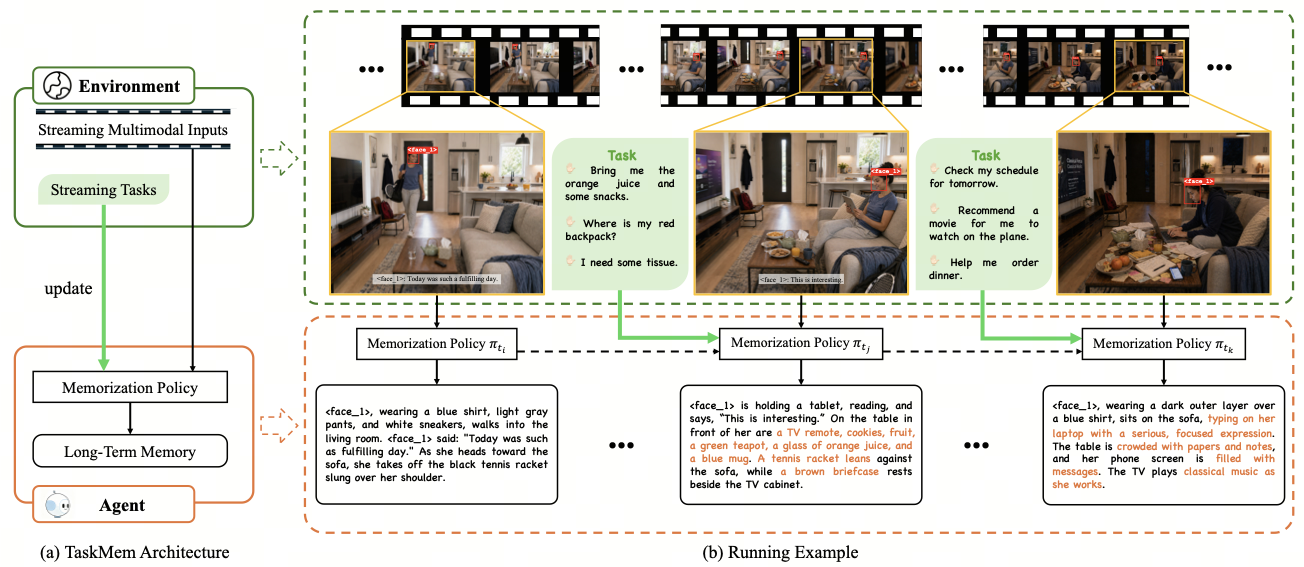
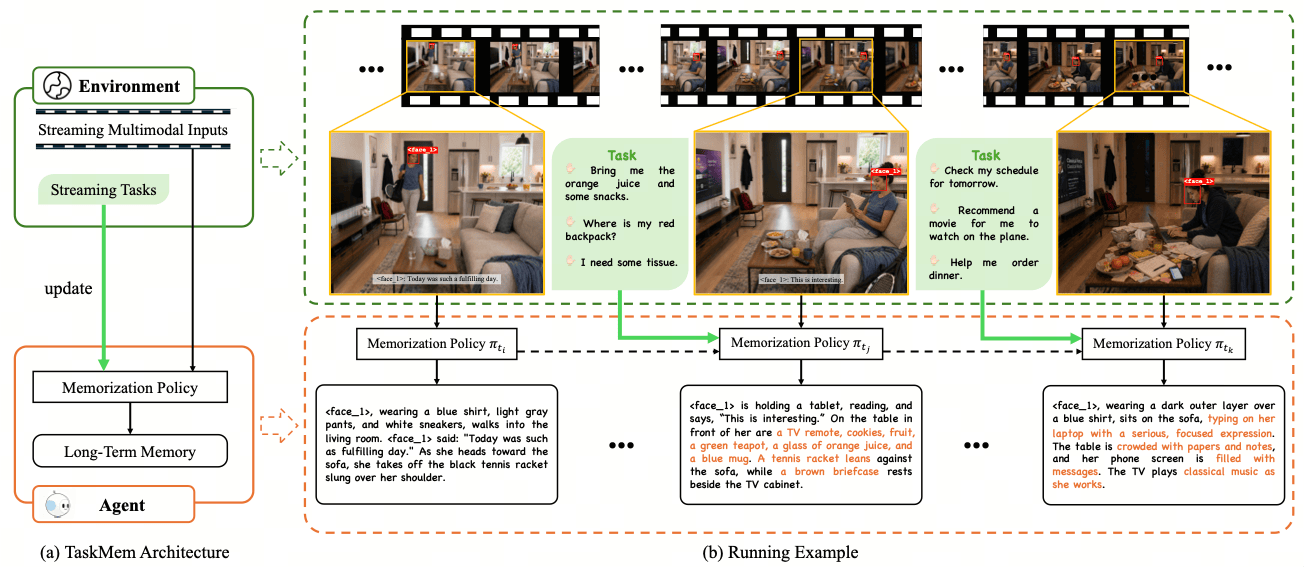
chore: migrate site to taskmem.github.io and compress figures
- Compress introduction/train/agent-icon PNGs by ~75%
  (introduction.png 464KB->137KB, train.png 261KB->70KB, agent-icon.png 240KB->35KB)
- Switch all jsDelivr CDN paths from gh/Hope-Rita/TaskMem-demo to gh/taskmem/taskmem.github.io
- Update BibTeX url, og:url, twitter:image, structured data url to https://taskmem.github.io/
- Add scripts/warm_cdn.sh to purge + pre-fetch jsDelivr after each push
- Ignore .image-originals-backup/ (kept locally as pre-compression originals)

diff --git a/index.html b/index.html
@@ -28,9 +28,9 @@
   <!-- TODO: Same as description above -->
   <meta property="og:description" content="BRIEF_DESCRIPTION_OF_YOUR_RESEARCH_CONTRIBUTION_AND_FINDINGS">
   <!-- TODO: Replace with your actual website URL -->
-  <meta property="og:url" content="https://YOUR_DOMAIN.com/YOUR_PROJECT_PAGE">
+  <meta property="og:url" content="https://taskmem.github.io/">
   <!-- TODO: Create a 1200x630px preview image and update path -->
-  <meta property="og:image" content="https://YOUR_DOMAIN.com/static/images/social_preview.png">
+  <meta property="og:image" content="https://taskmem.github.io/static/images/introduction.png">
   <meta property="og:image:width" content="1200">
   <meta property="og:image:height" content="630">
   <meta property="og:image:alt" content="PAPER_TITLE - Research Preview">
@@ -51,7 +51,7 @@
   <!-- TODO: Same as description above -->
   <meta name="twitter:description" content="BRIEF_DESCRIPTION_OF_YOUR_RESEARCH_CONTRIBUTION_AND_FINDINGS">
   <!-- TODO: Same as social preview image above -->
-  <meta name="twitter:image" content="https://YOUR_DOMAIN.com/static/images/social_preview.png">
+  <meta name="twitter:image" content="https://taskmem.github.io/static/images/introduction.png">
   <meta name="twitter:image:alt" content="PAPER_TITLE - Research Preview">
 
   <!-- Academic/Research Specific -->
@@ -82,7 +82,18 @@
   <!-- Favicon and App Icons -->
   <link rel="icon" type="image/png" sizes="32x32" href="static/images/agent-favicon.png?v=3">
   <link rel="apple-touch-icon" href="static/images/agent-icon.png?v=3">
-  
+
+  <!-- Speed up jsDelivr (CDN for figures and videos) and font CDNs -->
+  <link rel="preconnect" href="https://cdn.jsdelivr.net" crossorigin>
+  <link rel="dns-prefetch" href="https://cdn.jsdelivr.net">
+  <link rel="preconnect" href="https://cdnjs.cloudflare.com" crossorigin>
+  <link rel="dns-prefetch" href="https://cdnjs.cloudflare.com">
+
+  <!-- Preload above-the-fold introduction figure (served via jsDelivr) -->
+  <link rel="preload" as="image"
+        href="https://cdn.jsdelivr.net/gh/taskmem/taskmem.github.io@main/static/images/introduction.png"
+        fetchpriority="high">
+
   <!-- Critical CSS - Load synchronously -->
   <link rel="stylesheet" href="static/css/bulma.min.css">
   <link rel="stylesheet" href="static/css/index.css">
@@ -141,8 +152,8 @@
       "@type": "Organization",
       "name": "CONFERENCE_OR_JOURNAL_NAME"
     },
-    "url": "https://YOUR_DOMAIN.com/YOUR_PROJECT_PAGE",
-    "image": "https://YOUR_DOMAIN.com/static/images/social_preview.png",
+    "url": "https://taskmem.github.io/",
+    "image": "https://taskmem.github.io/static/images/introduction.png",
     "keywords": ["KEYWORD1", "KEYWORD2", "KEYWORD3", "machine learning", "computer vision"],
     "abstract": "FULL_ABSTRACT_TEXT_HERE",
     "citation": "BIBTEX_CITATION_HERE",
@@ -150,7 +161,7 @@
     "license": "https://creativecommons.org/licenses/by/4.0/",
     "mainEntity": {
       "@type": "WebPage",
-      "@id": "https://YOUR_DOMAIN.com/YOUR_PROJECT_PAGE"
+      "@id": "https://taskmem.github.io/"
     },
     "about": [
       {
@@ -172,7 +183,7 @@
     "@type": "Organization",
     "name": "INSTITUTION_OR_LAB_NAME",
     "url": "https://YOUR_INSTITUTION_WEBSITE.com",
-    "logo": "https://YOUR_DOMAIN.com/static/images/agent-icon.png",
+    "logo": "https://taskmem.github.io/static/images/agent-icon.png",
     "sameAs": [
       "https://twitter.com/YOUR_TWITTER_HANDLE",
       "https://github.com/YOUR_GITHUB_USERNAME"
@@ -296,9 +307,11 @@
   <div class="hero-body" style="padding-top: 0; padding-bottom: 0;">
     <div class="container is-max-widescreen">
       <img
-        src="static/images/introduction.png"
+        src="https://cdn.jsdelivr.net/gh/taskmem/taskmem.github.io@main/static/images/introduction.png"
         alt="Introduction figure"
-        loading="lazy"
+        loading="eager"
+        fetchpriority="high"
+        decoding="async"
         style="display: block; width: 100%; height: auto; border: 0; margin-top: 0;">
     </div>
   </div>
@@ -311,9 +324,10 @@
     <div class="container is-max-widescreen">
       <h2 class="title is-3 has-text-centered">Method Overview</h2>
       <img
-        src="static/images/train.png"
+        src="https://cdn.jsdelivr.net/gh/taskmem/taskmem.github.io@main/static/images/train.png"
         alt="Method overview figure"
         loading="lazy"
+        decoding="async"
         style="display: block; width: 100%; height: auto;">
       <div style="max-width: 1280px; margin: 12px auto 0;">
         <p style="font-size: 0.95rem; line-height: 1.75; margin: 0; color: #4a4a4a;">
@@ -3666,7 +3680,7 @@
 
           // Production: route static videos through jsDelivr CDN for faster
           // global delivery (especially China). Local dev: keep relative path.
-          const VIDEO_CDN_BASE = "https://cdn.jsdelivr.net/gh/Hope-Rita/TaskMem-demo@main/";
+          const VIDEO_CDN_BASE = "https://cdn.jsdelivr.net/gh/taskmem/taskmem.github.io@main/";
           function isLocalHost() {
             const h = (typeof location !== "undefined" && location.hostname) || "";
             return !h || h === "localhost" || h === "127.0.0.1" || h === "0.0.0.0";
@@ -4086,7 +4100,7 @@
   title={Task-Focused Memorization for Multimodal Agents},
   author={Zou, Tao and He, Yichen and Qiu, Tian and Lin, Yuan and Li, Hang},
   year={2026},
-  url={https://hope-rita.github.io/TaskMem-demo/}
+  url={https://taskmem.github.io/}
 }</code></pre>
     </div>
 </section>